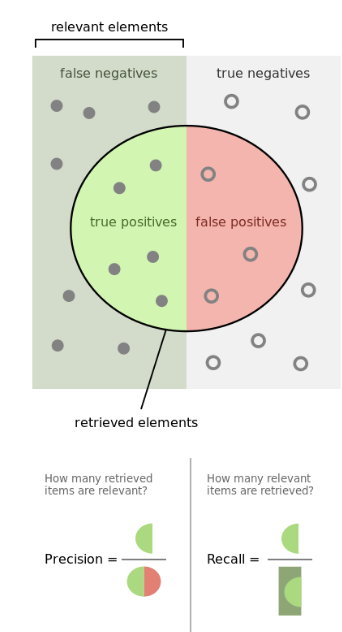
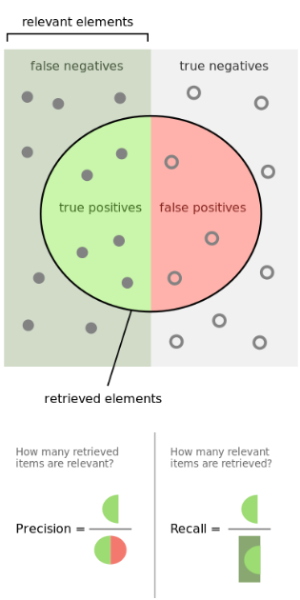
alcune modifiche

diff --git a/Domande TEST.md b/Domande TEST.md
@@ -195,7 +195,7 @@ Poiché 0.5 > 0.375 è più verosimile che i dati osservati provengano da una mo
 
 ---
 
-<div class = "domanda1 riprendere">
+<div class = "domanda1">
 10. Qual è il principale scopo della <strong>normalizzazione</strong> dei dati prima dell'addestramento di un modello di machine learning?<br>
 	-Aumentare la precisione delle previsioni del modello.<br>
 	-<span class="evidenzia_risposta">Garantire che tutte le feature abbiano la stessa scala, migliorando la convergenza dell'ottimizzazione.</span><br>
@@ -323,7 +323,7 @@ $$
 \end{aligned}
 $$
 
-![[Screenshot 2025-12-01 alle 14.53.22.png]]
+![[Screenshot 2025-12-01 alle 14.53.22.png|0x0]]
 
 
 ---
@@ -1922,7 +1922,8 @@ $\begin{aligned} H(P, Q) &= - \left[ P(0)\log_2(Q(0)) + P(1)\log_2(Q(1)) + P(2)\
 <strong>Risposta corretta</strong>: 7 <br>
 
 <strong>Spiegazione</strong>: Ogni volta che aggiungi un nuovo livello, non sommi semplicemente la larghezza del nuovo filtro. Aggiungi solo i bordi extra che il nuovo filtro guadagna spostandosi a destra e a sinistra rispetto al centro.<br>
-Avevi 5. Il filtro da 3 ha un centro e 2 estremità (una a destra, una a sinistra). Queste 2 estremità allargano la visuale di 1 pixel ciascuna, 5 + 2 = 7
+Avevi 5. Il filtro da 3 ha un centro e 2 estremità (una a destra, una a sinistra). Queste 2 estremità allargano la visuale di 1 pixel ciascuna, 5 + 2 = 7.<br>
+<strong>N.B.</strong> la Regola dell'Espansione: quando aggiungi un filtro sopra un altro (con stride 1), il nuovo filtro espande la visuale. Quanto espande? La sua dimensione - 1.
 
 </details>
 </div>
